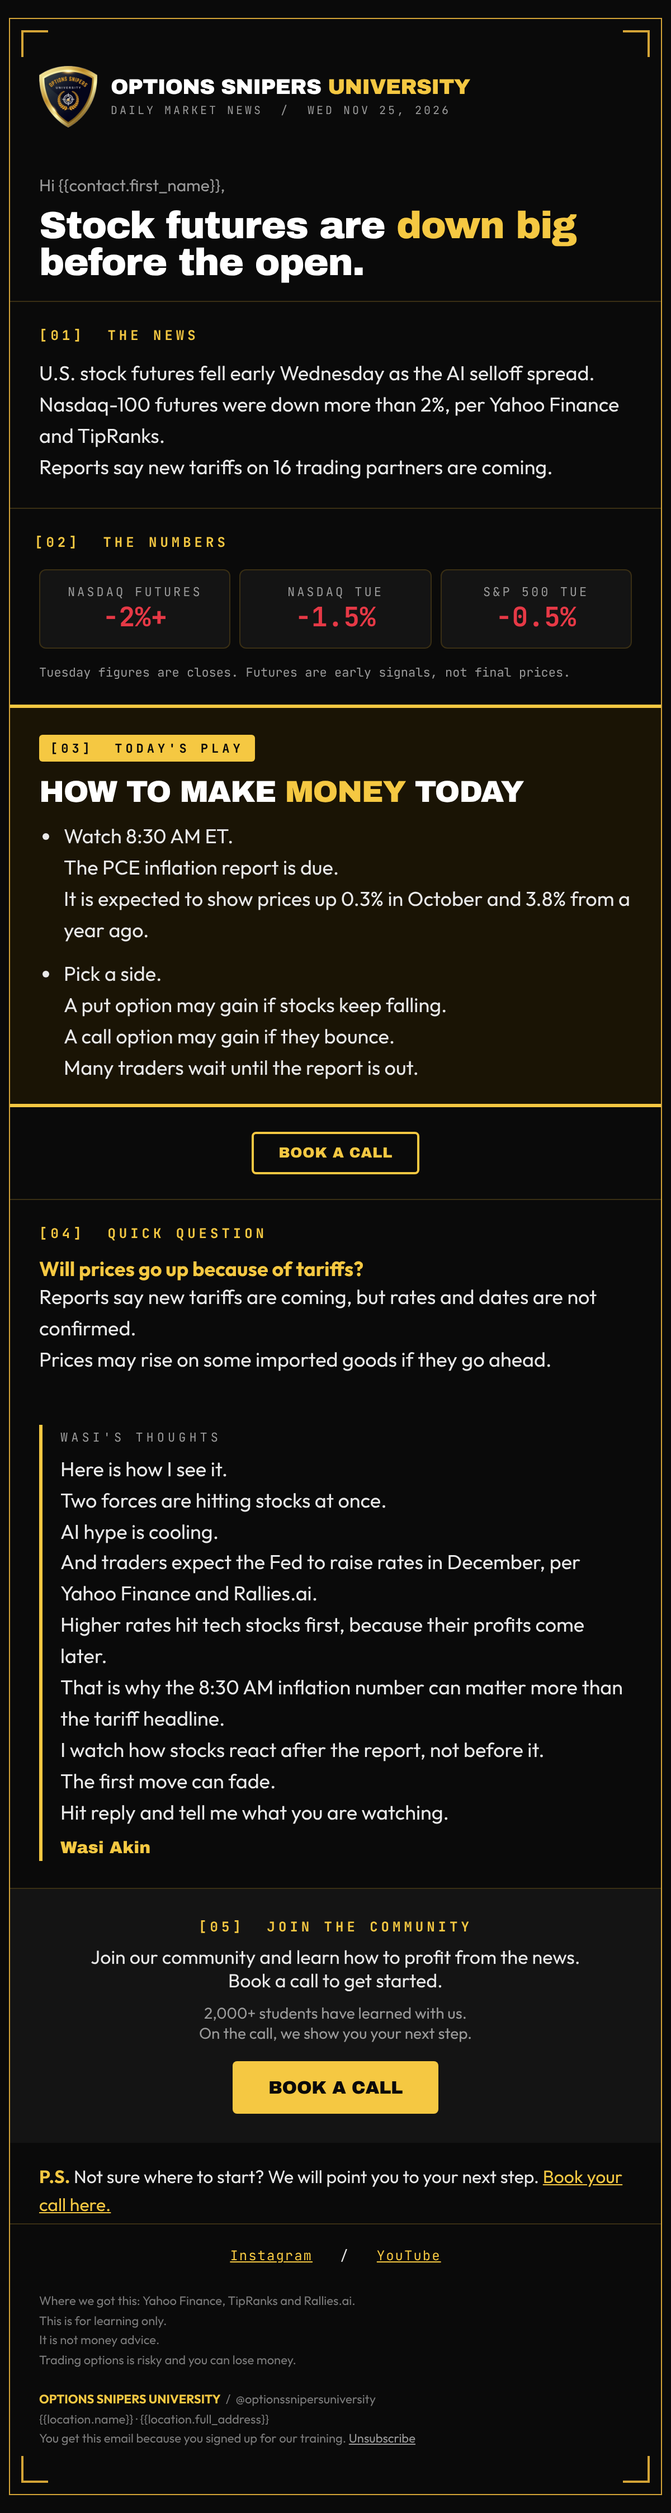
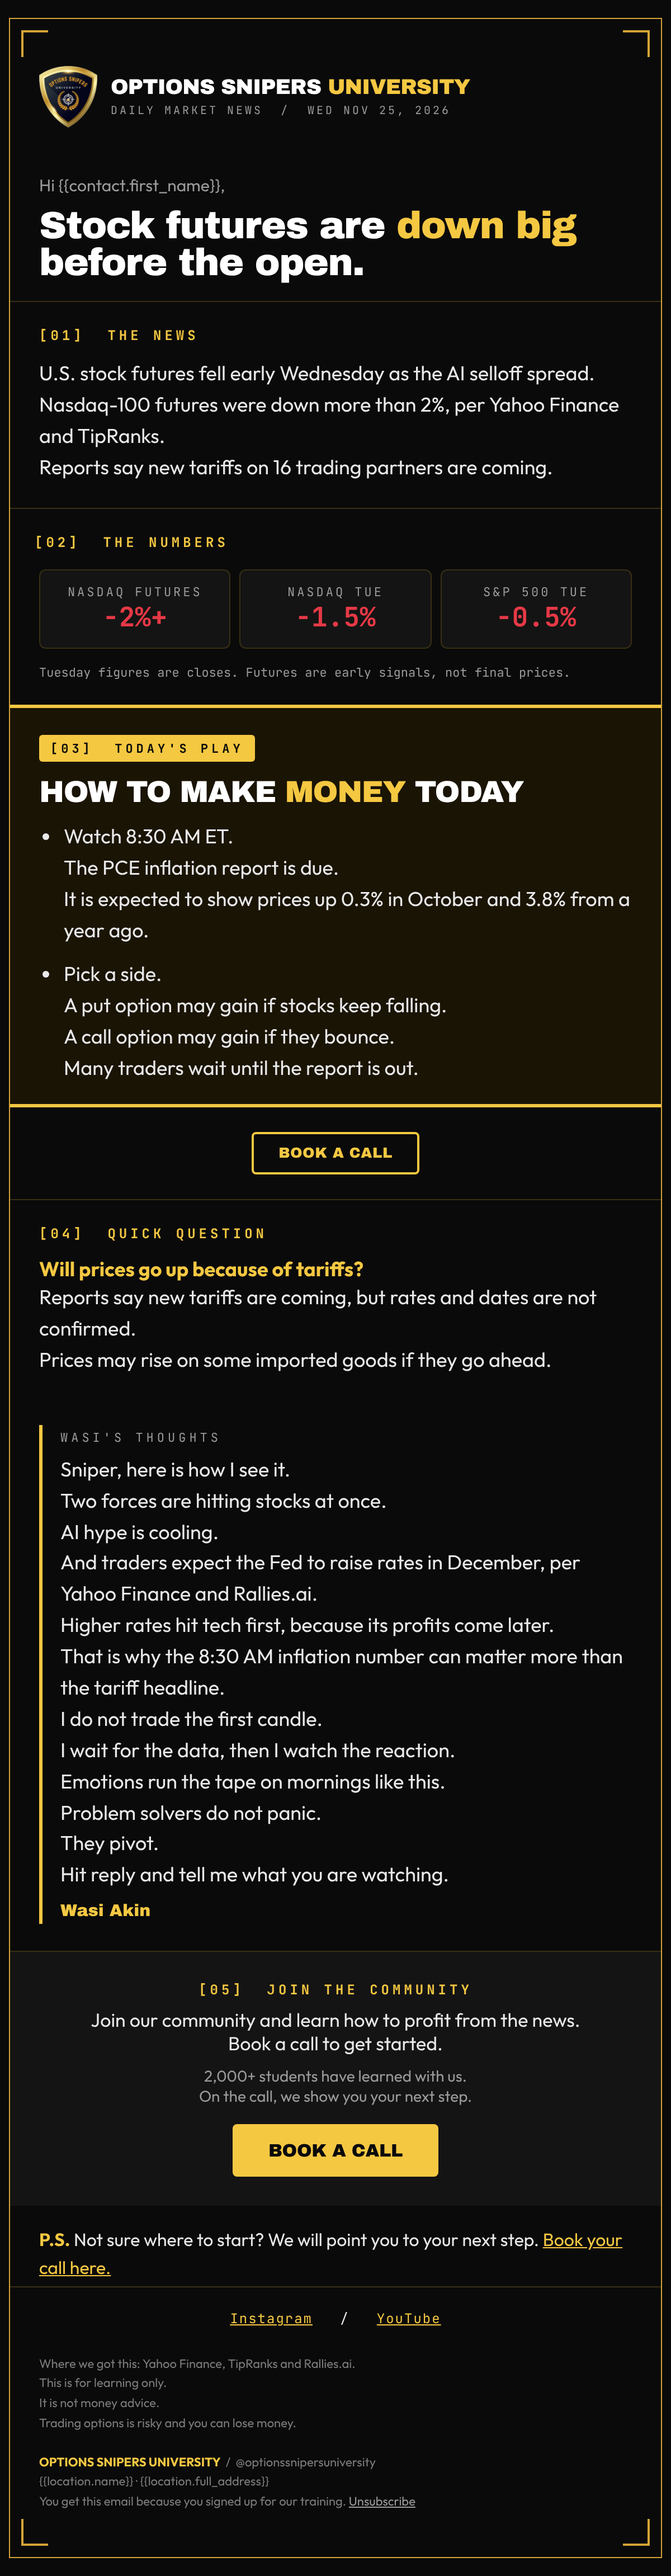
Newsletter: Wasi's Thoughts in Wasi's voice, voice guide
Claude-Session: https://claude.ai/code/session_012Jnj24KkCLcRRnciaad67C

diff --git a/newsletter/sent/2026-11-25/newsletter-2026-11-25.html b/newsletter/sent/2026-11-25/newsletter-2026-11-25.html
@@ -14,7 +14,7 @@
 <tr><td style="padding:0;border-top:3px solid #F5C842;border-bottom:3px solid #F5C842;background:#1a1405;"><table role="presentation" width="100%" cellpadding="0" cellspacing="0"><tr><td style="padding:24px 26px 6px;"><span style="display:inline-block;background:#F5C842;color:#0A0A0A;font-family:'JetBrains Mono','Courier New',monospace;font-size:11px;font-weight:bold;letter-spacing:3px;padding:5px 10px;border-radius:3px;">[03] &nbsp;TODAY'S PLAY</span><div style="font-family:'Archivo Black','Arial Black',Arial,sans-serif;font-size:27px;letter-spacing:-0.025em;line-height:1;color:#ffffff;margin:14px 0 12px;">HOW TO MAKE <span style="color:#F5C842;">MONEY</span> TODAY</div><ul style="font-family:'Outfit',Arial,Helvetica,sans-serif;font-size:18px;line-height:1.55;color:#E9E9E9;margin:0;padding-left:22px;margin:0;"><li style="margin-bottom:12px;">Watch 8:30 AM ET.<br>The PCE inflation report is due.<br>It is expected to show prices up 0.3% in October and 3.8% from a year ago.</li><li style="margin-bottom:12px;">Pick a side.<br>A put option may gain if stocks keep falling.<br>A call option may gain if they bounce.<br>Many traders wait until the report is out.</li></ul></td></tr></table></td></tr>
 <tr><td align="center" style="padding:22px 26px 22px;"><a href="https://www.optionssnipers.ai" style="display:inline-block;border:2px solid #F5C842;color:#F5C842;font-family:'Archivo Black','Arial Black',Arial,sans-serif;font-size:13px;letter-spacing:0.02em;text-decoration:none;padding:10px 22px;border-radius:4px;">BOOK A CALL</a></td></tr>
 <tr><td style="padding:22px 26px;border-top:1px solid #3a2f14;"><div style="font-family:'JetBrains Mono','Courier New',monospace;font-size:12px;font-weight:bold;letter-spacing:3px;color:#F5C842;margin-bottom:12px;">[04] &nbsp;QUICK QUESTION</div><div style="margin-bottom:16px;"><div style="font-family:'Outfit',Arial,Helvetica,sans-serif;font-size:18px;font-weight:bold;color:#F5C842;">Will prices go up because of tariffs?</div><div style="font-family:'Outfit',Arial,Helvetica,sans-serif;font-size:18px;line-height:1.55;color:#E9E9E9;margin:0;">Reports say new tariffs are coming, but rates and dates are not confirmed.<br>Prices may rise on some imported goods if they go ahead.</div></div></td></tr>
-<tr><td style="padding:6px 26px 24px;"><table role="presentation" width="100%" cellpadding="0" cellspacing="0"><tr><td style="border-left:3px solid #F5C842;padding:4px 0 4px 16px;"><div style="font-family:'JetBrains Mono','Courier New',monospace;font-size:11px;letter-spacing:3px;color:#9a9a9a;margin-bottom:8px;">WASI'S THOUGHTS</div><div style="font-family:'Outfit',Arial,Helvetica,sans-serif;font-size:18px;line-height:1.55;color:#E9E9E9;margin:0;">Here is how I see it.<br>Two forces are hitting stocks at once.<br>AI hype is cooling.<br>And traders expect the Fed to raise rates in December, per Yahoo Finance and Rallies.ai.<br>Higher rates hit tech stocks first, because their profits come later.<br>That is why the 8:30 AM inflation number can matter more than the tariff headline.<br>I watch how stocks react after the report, not before it.<br>The first move can fade.<br>Hit reply and tell me what you are watching.</div><div style="font-family:'Archivo Black','Arial Black',Arial,sans-serif;font-size:15px;color:#F5C842;margin-top:10px;">Wasi Akin</div></td></tr></table></td></tr>
+<tr><td style="padding:6px 26px 24px;"><table role="presentation" width="100%" cellpadding="0" cellspacing="0"><tr><td style="border-left:3px solid #F5C842;padding:4px 0 4px 16px;"><div style="font-family:'JetBrains Mono','Courier New',monospace;font-size:11px;letter-spacing:3px;color:#9a9a9a;margin-bottom:8px;">WASI'S THOUGHTS</div><div style="font-family:'Outfit',Arial,Helvetica,sans-serif;font-size:18px;line-height:1.55;color:#E9E9E9;margin:0;">Sniper, here is how I see it.<br>Two forces are hitting stocks at once.<br>AI hype is cooling.<br>And traders expect the Fed to raise rates in December, per Yahoo Finance and Rallies.ai.<br>Higher rates hit tech first, because its profits come later.<br>That is why the 8:30 AM inflation number can matter more than the tariff headline.<br>I do not trade the first candle.<br>I wait for the data, then I watch the reaction.<br>Emotions run the tape on mornings like this.<br>Problem solvers do not panic.<br>They pivot.<br>Hit reply and tell me what you are watching.</div><div style="font-family:'Archivo Black','Arial Black',Arial,sans-serif;font-size:15px;color:#F5C842;margin-top:10px;">Wasi Akin</div></td></tr></table></td></tr>
 <tr><td align="center" style="padding:26px;border-top:1px solid #3a2f14;background:#141414;"><div style="font-family:'JetBrains Mono','Courier New',monospace;font-size:12px;font-weight:bold;letter-spacing:3px;color:#F5C842;margin-bottom:8px;">[05] &nbsp;JOIN THE COMMUNITY</div><div style="font-family:'Outfit',Arial,Helvetica,sans-serif;font-size:17px;color:#E9E9E9;margin-bottom:16px;">Join our community and learn how to profit from the news.<br>Book a call to get started.</div><div style="font-family:'Outfit',Arial,Helvetica,sans-serif;font-size:14px;color:#9a9a9a;margin:-6px 0 16px;">2,000+ students have learned with us.<br>On the call, we show you your next step.</div><a href="https://www.optionssnipers.ai" style="display:inline-block;background:#F5C842;color:#0A0A0A;font-family:'Archivo Black','Arial Black',Arial,sans-serif;font-size:16px;letter-spacing:-0.01em;text-decoration:none;padding:15px 32px;border-radius:4px;">BOOK A CALL</a></td></tr>
 <tr><td style="padding:18px 26px 4px;font-family:'Outfit',Arial,Helvetica,sans-serif;font-size:16px;line-height:1.55;color:#E9E9E9;"><strong style="color:#F5C842;">P.S.</strong> Not sure where to start? We will point you to your next step. <a href="https://www.optionssnipers.ai" style="color:#F5C842;">Book your call here.</a></td></tr>
 <tr><td align="center" style="padding:20px 26px 4px;border-top:1px solid #3a2f14;font-family:'JetBrains Mono','Courier New',monospace;font-size:12px;letter-spacing:1px;"><a href="https://www.instagram.com/optionssnipersuniversity" style="color:#F5C842;text-decoration:underline;">Instagram</a> &nbsp;&nbsp;/&nbsp;&nbsp; <a href="https://www.youtube.com/channel/UCYdhQjWVViYLeouiSkUQpXQ" style="color:#F5C842;text-decoration:underline;">YouTube</a></td></tr>

diff --git a/newsletter/make_daily.py b/newsletter/make_daily.py
@@ -29,7 +29,7 @@ v={'SUBJ':'Futures sink as the AI selloff spreads','PRE':'Tariff news and a big 
 'NUMNOTE':'Tuesday figures are closes. Futures are early signals, not final prices.',
 'BUL':['Watch 8:30 AM ET. The PCE inflation report is due. It is expected to show prices up 0.3% in October and 3.8% from a year ago.','Pick a side. A put option may gain if stocks keep falling. A call option may gain if they bounce. Many traders wait until the report is out.'],
 'QA':[('Will prices go up because of tariffs?','Reports say new tariffs are coming, but rates and dates are not confirmed. Prices may rise on some imported goods if they go ahead.')],
-'MIDBTN':'BOOK A CALL','NOTE':'Here is how I see it. Two forces are hitting stocks at once. AI hype is cooling. And traders expect the Fed to raise rates in December, per Yahoo Finance and Rallies.ai. Higher rates hit tech stocks first, because their profits come later. That is why the 8:30 AM inflation number can matter more than the tariff headline. I watch how stocks react after the report, not before it. The first move can fade. Hit reply and tell me what you are watching.',
+'MIDBTN':'BOOK A CALL','NOTE':'Sniper, here is how I see it. Two forces are hitting stocks at once. AI hype is cooling. And traders expect the Fed to raise rates in December, per Yahoo Finance and Rallies.ai. Higher rates hit tech first, because its profits come later. That is why the 8:30 AM inflation number can matter more than the tariff headline. I do not trade the first candle. I wait for the data, then I watch the reaction. Emotions run the tape on mornings like this. Problem solvers do not panic. They pivot. Hit reply and tell me what you are watching.',
 'CTATEXT':'Join our community and learn how to profit from the news. Book a call to get started.','TRUST':'2,000+ students have learned with us. On the call, we show you your next step.','CTABTN':'BOOK A CALL','CTAURL':'https://www.optionssnipers.ai','PS':'Not sure where to start? We will point you to your next step.','PSLINK':'Book your call here.','SRC':'Yahoo Finance, TipRanks and Rallies.ai'}
 logo='https://raw.githubusercontent.com/optionssnipers/wall-street-awards/main/newsletter/osu-logo.png'
 open(f'/mnt/user-data/outputs/newsletter-{DATE_TAG}.html','w').write(page(v,logo,'',fonts='',ICON=''))

diff --git a/newsletter/wasi-voice.md b/newsletter/wasi-voice.md
@@ -1,0 +1,7 @@
+# Wasi's voice for "Wasi's Thoughts"
+First person, as Wasi Akin. Tactical, military-precision, short declarative sentences. Periods, not em-dashes. No emojis, no motivational filler.
+Sniper language: "Sniper," as the opener, "the tape", "my level", "setup".
+Teaches the why: what the market is pricing, how two forces connect, why one number beats the headline.
+Habit or lesson: patience, wait for the data, watch the reaction, emotions run the tape (emotional intelligence is most of trading).
+Sign-off line from the Trader's Creed: "Problem solvers do not panic. They pivot."
+Rules: attribute every figure, hedge ("can", "may"), no predictions, no buy or sell advice, no contract specifics. End with an invitation to hit reply.
